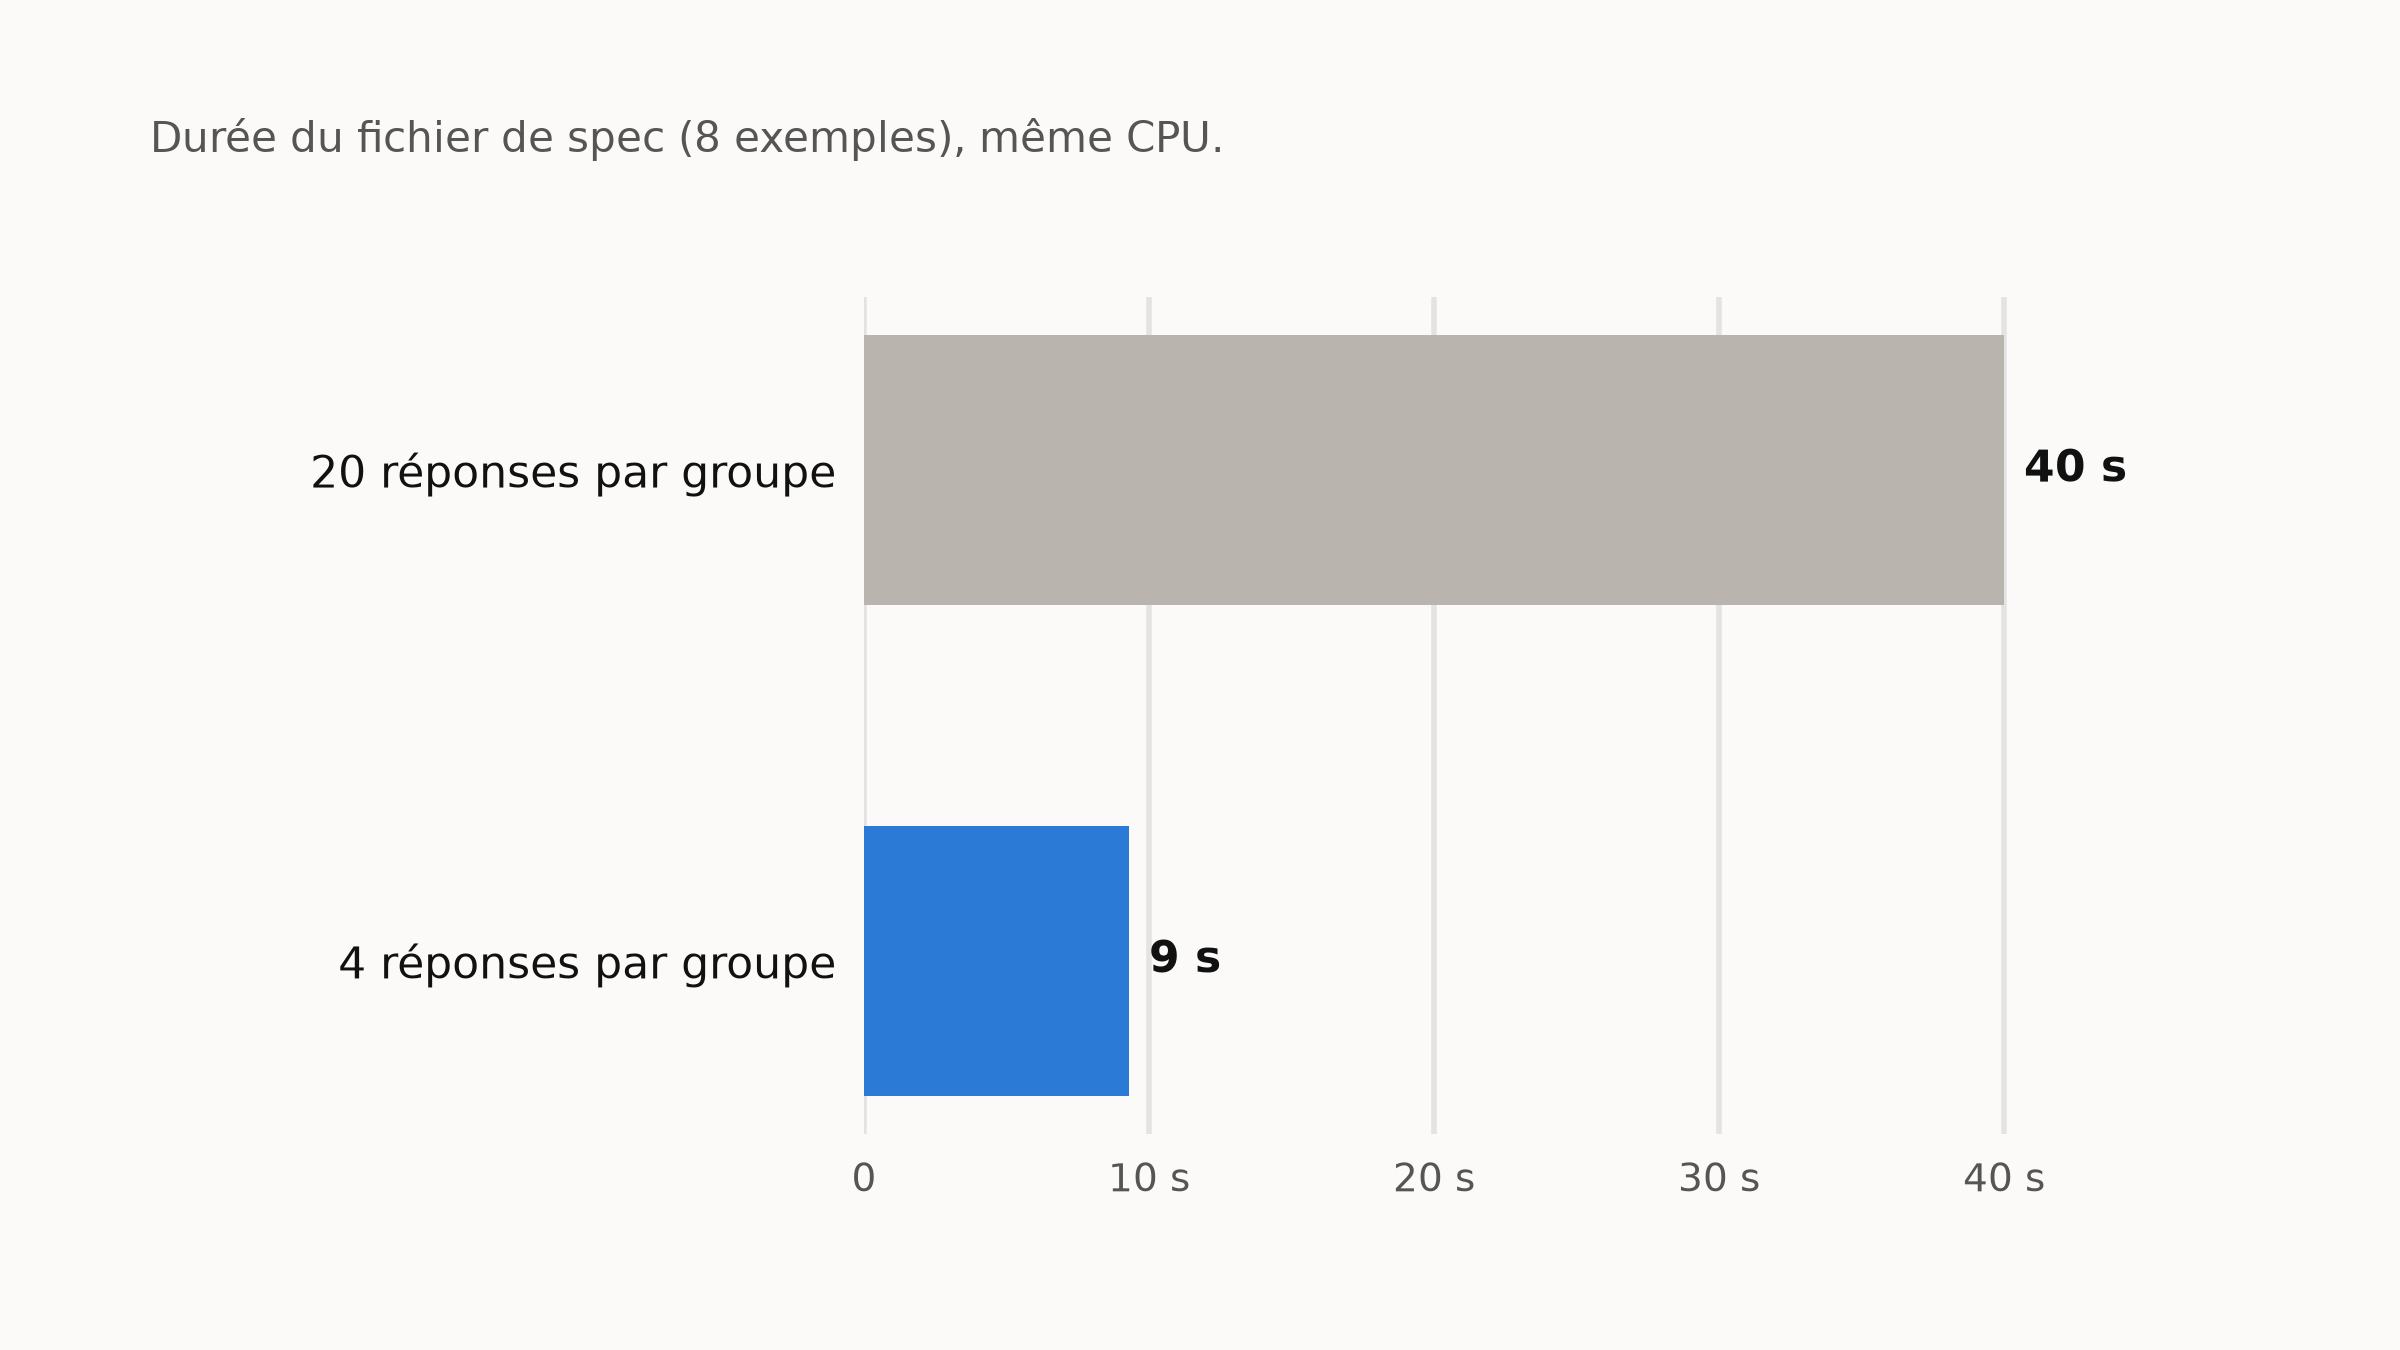
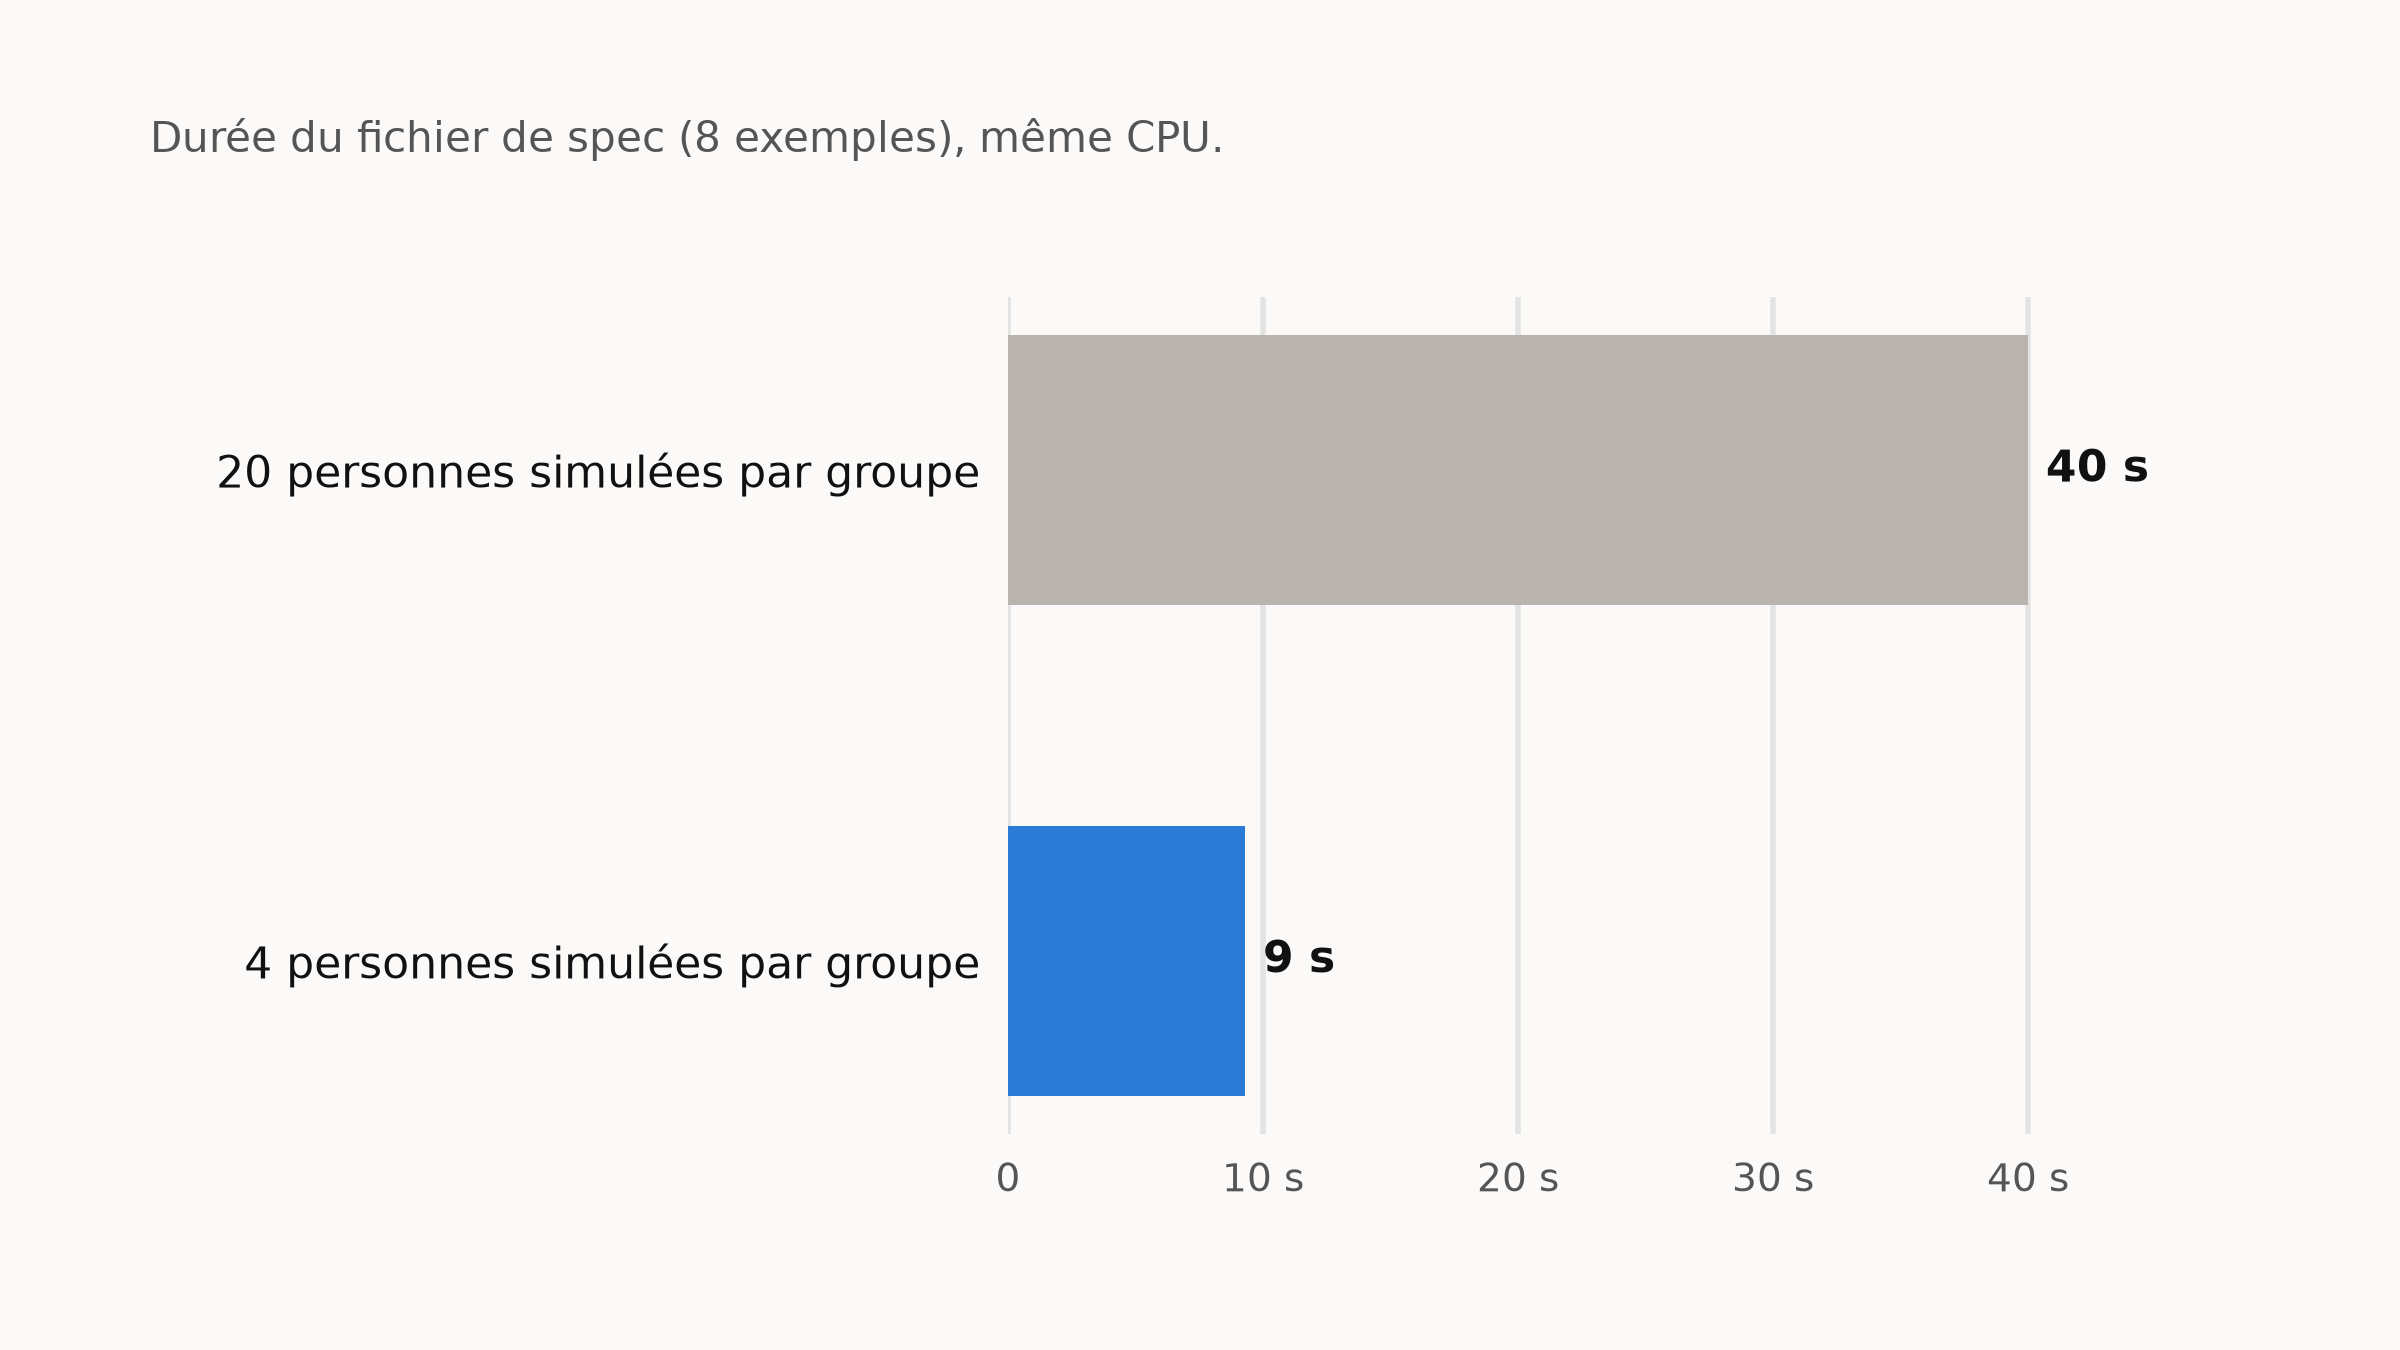
blog: Alléger les specs RSpec, les cas du client en contexte et un « Et maintenant » concret

diff --git a/content/blog/alleger-les-specs-rspec/fr.md b/content/blog/alleger-les-specs-rspec/fr.md
@@ -129,17 +129,40 @@ end
 it { expect(Order.page(3).count).to eq(1) }
 ```
 
-Chez notre client, c'était le même motif : un import coûte 1 crédit par tranche de 1 000 réponses, et le spec en importait 1 500 pour vérifier l'arrondi au crédit supérieur. Avec une tranche ramenée à 2, 3 réponses suffisent. Un autre spec créait 20 réponses par groupe, alors que 4 suffisent à vérifier ses calculs. Son fichier passe de 40 à 9 s :
+Chez notre client, on a trouvé ce motif deux fois. D'abord dans l'import de réponses, facturé 1 crédit par tranche de 1 000 réponses, arrondi au-dessus : pour vérifier qu'un import de 1 500 réponses coûte bien 2 crédits, le spec importait vraiment 1 500 réponses. En fixant la tranche à 2 réponses le temps du test, 3 réponses suffisent pour retomber sur 2 crédits.
 
-![Durée d'un fichier de spec, avec 20 puis 4 réponses par groupe](minimal-fr.png "Mêmes 8 exemples, mêmes vérifications.")
+Ensuite dans une simulation : pour tester une enquête, l'app peut simuler des répondants dans chaque groupe visé (les adultes, les mineurs…) et signaler les groupes qu'on n'arrivera pas à atteindre. Le spec simulait 20 personnes par groupe, alors que 4 suffisent pour savoir si un groupe est atteint. Son fichier passe de 40 à 9 s :
+
+![Durée du spec de la simulation, avec 20 puis 4 personnes simulées par groupe](minimal-fr.png "Mêmes 8 exemples, mêmes vérifications.")
 
 Sur les 4 fichiers concernés, le profil de chaque fichier donne un gain d'environ 42 s, une estimation. C'est moins que l'écart entre deux mesures du même code (50 à 100 s) : sur toute la suite, on ne le voit pas, il faut mesurer fichier par fichier.
 
 ## Et maintenant
 
-On reprend ces conventions une par une : une petite PR par convention, qu'on relit en quelques minutes.
+Ces conventions arrivent dans la codebase petit à petit. La grosse PR qui les appliquait toutes d'un coup a été fermée, et on les reprend une par une : une petite PR par convention, relue en quelques minutes.
 
-Le but, c'est que les prochains specs soient efficaces dès qu'on les écrit. Les conventions qu'un outil peut vérifier deviennent des règles de RuboCop, le linter Ruby : un spec qui ne les respecte pas fait échouer la CI. Les autres sont écrites, en phrases simples, dans les instructions que nos agents de code lisent avant d'écrire un spec.
+Pour qu'elles tiennent une fois en place, deux choses tournent déjà à chaque PR.
+
+**Une règle RuboCop écrite pour le projet.** `RSpec/OneLinerExample` impose la forme des exemples : un `it { expect(...).to ... }` d'une ligne, ou un exemple nommé et marqué `:aggregate_failures` quand il vérifie plusieurs choses. Un script de la CI ne la lance que sur les lignes que la PR ajoute ou modifie, pour ne pas obliger à réécrire tous les anciens specs :
+
+```yaml
+# .github/workflows/api-lint.yml
+- name: Check the style of touched specs
+  run: bin/check-spec-style origin/${{ github.base_ref }}
+```
+
+Un nouvel exemple écrit sur plusieurs lignes sans `:aggregate_failures` fait échouer la CI avec ce message :
+
+```
+Write the example as a one-liner `it { expect(...).to ... }` — no description, no `do … end`
+(tag `:aggregate_failures` when several expectations are needed).
+```
+
+**Des instructions pour les agents de code.** Ce qu'un linter ne sait pas juger est écrit en phrases simples dans `.claude/knowledge/api/spec.md`. Un hook l'ajoute automatiquement au contexte de l'agent dès qu'il modifie un fichier sous `spec/`, par exemple :
+
+> Do not mimic legacy specs that violate these rules — the convention wins over existing style.
+
+C'est là qu'iront les conventions de cet article qu'aucun linter ne peut vérifier, comme `build_stubbed` quand le spec ne relit pas la base.
 
 > [!NOTE]
 > Les runners `ubuntu-latest` tombent sur des CPU différents, et la même suite peut prendre de 477 à 730 s. Les versions de la suite sont donc comparées sur une seule machine, l'une après l'autre. On suit aussi dans PostHog la somme des temps de chaque fichier de spec, qui monte quand on ajoute des specs, pas quand on ajoute des jobs (voir [Suivre les OKR tech d'une équipe dans PostHog](/blog/suivre-les-okr-tech-d-une-equipe-dans-posthog-depuis-github-actions)).

diff --git a/content/blog/alleger-les-specs-rspec/en.md b/content/blog/alleger-les-specs-rspec/en.md
@@ -129,17 +129,40 @@ end
 it { expect(Order.page(3).count).to eq(1) }
 ```
 
-At our client, it was the same pattern: an import costs 1 credit per block of 1,000 answers, and the spec imported 1,500 of them to check the rounding up to the next credit. With the block brought down to 2, 3 answers are enough. Another spec created 20 answers per group, when 4 are enough to check its calculations. Its file goes from 40 to 9 s:
+At our client, we found this pattern twice. First in the import of answers, billed 1 credit per block of 1,000 answers, rounded up: to check that importing 1,500 answers costs 2 credits, the spec really imported 1,500 answers. With the block set to 2 answers for the duration of the test, 3 answers are enough to land on 2 credits again.
 
-![Duration of a spec file, with 20 then 4 answers per group](minimal-en.png "Same 8 examples, same checks.")
+Then in a simulation: to test a survey, the app can simulate respondents in each targeted group (adults, minors…) and flag the groups it won't manage to reach. The spec simulated 20 people per group, when 4 are enough to tell whether a group is reached. Its file goes from 40 to 9 s:
+
+![Duration of the simulation spec, with 20 then 4 simulated people per group](minimal-en.png "Same 8 examples, same checks.")
 
 Across the 4 files involved, each file's profile puts the gain at about 42 s, an estimate. That's less than the gap between two measurements of the same code (50 to 100 s): on the whole suite you can't see it, you have to measure file by file.
 
 ## What's next
 
-We're taking these conventions one by one: one small PR per convention, reviewed in a few minutes.
+These conventions are coming into the codebase little by little. The big PR that applied them all at once was closed, and we're taking them one by one: one small PR per convention, reviewed in a few minutes.
 
-The goal is for the next specs to be efficient as soon as they're written. The conventions a tool can check become RuboCop rules (RuboCop is the Ruby linter): a spec that breaks them fails the CI. The others are written, in plain sentences, in the instructions our coding agents read before writing a spec.
+To make them stick once they're in, two things already run on every PR.
+
+**A RuboCop rule written for the project.** `RSpec/OneLinerExample` enforces the shape of examples: a one-line `it { expect(...).to ... }`, or a named example tagged `:aggregate_failures` when it checks several things. A CI script runs it only on the lines the PR adds or changes, so nobody has to rewrite every old spec:
+
+```yaml
+# .github/workflows/api-lint.yml
+- name: Check the style of touched specs
+  run: bin/check-spec-style origin/${{ github.base_ref }}
+```
+
+A new example written over several lines without `:aggregate_failures` fails the CI with this message:
+
+```
+Write the example as a one-liner `it { expect(...).to ... }` — no description, no `do … end`
+(tag `:aggregate_failures` when several expectations are needed).
+```
+
+**Instructions for the coding agents.** What a linter can't judge is written in plain sentences in `.claude/knowledge/api/spec.md`. A hook adds it to the agent's context as soon as it edits a file under `spec/`, for example:
+
+> Do not mimic legacy specs that violate these rules — the convention wins over existing style.
+
+That's where the conventions from this article that no linter can check will go, like `build_stubbed` when the spec doesn't read the database back.
 
 > [!NOTE]
 > `ubuntu-latest` runners land on different CPUs, and the same suite can take from 477 to 730 s. So versions of the suite are compared on a single machine, one after the other. We also track in PostHog the sum of each spec file's duration, which goes up when we add specs, not when we add jobs (see [Tracking a team's tech OKRs in PostHog](/en/blog/tracking-a-team-s-tech-okrs-in-posthog-straight-from-github-actions)).
